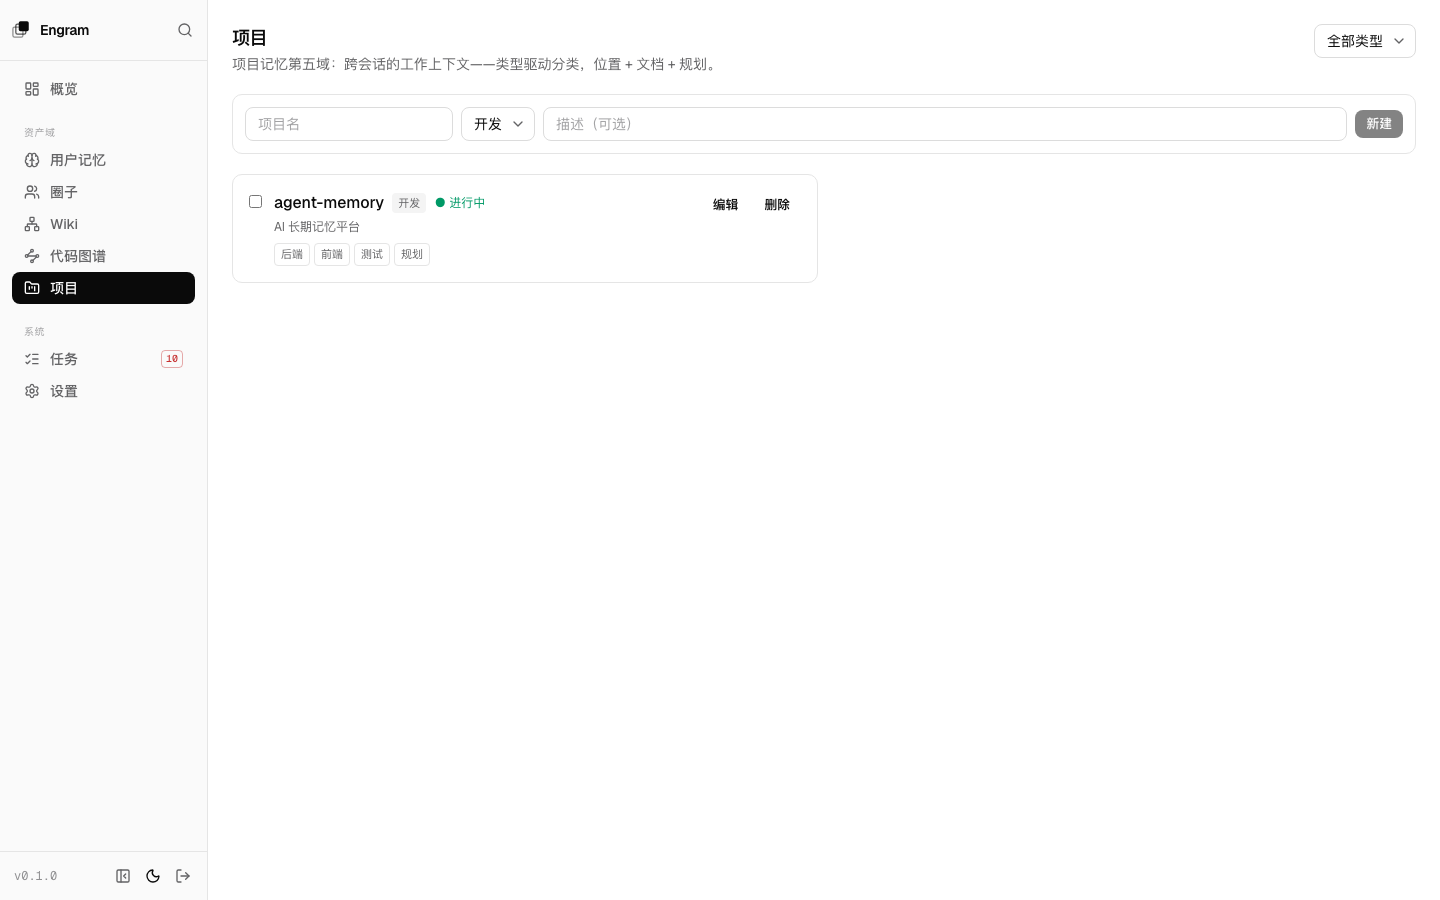
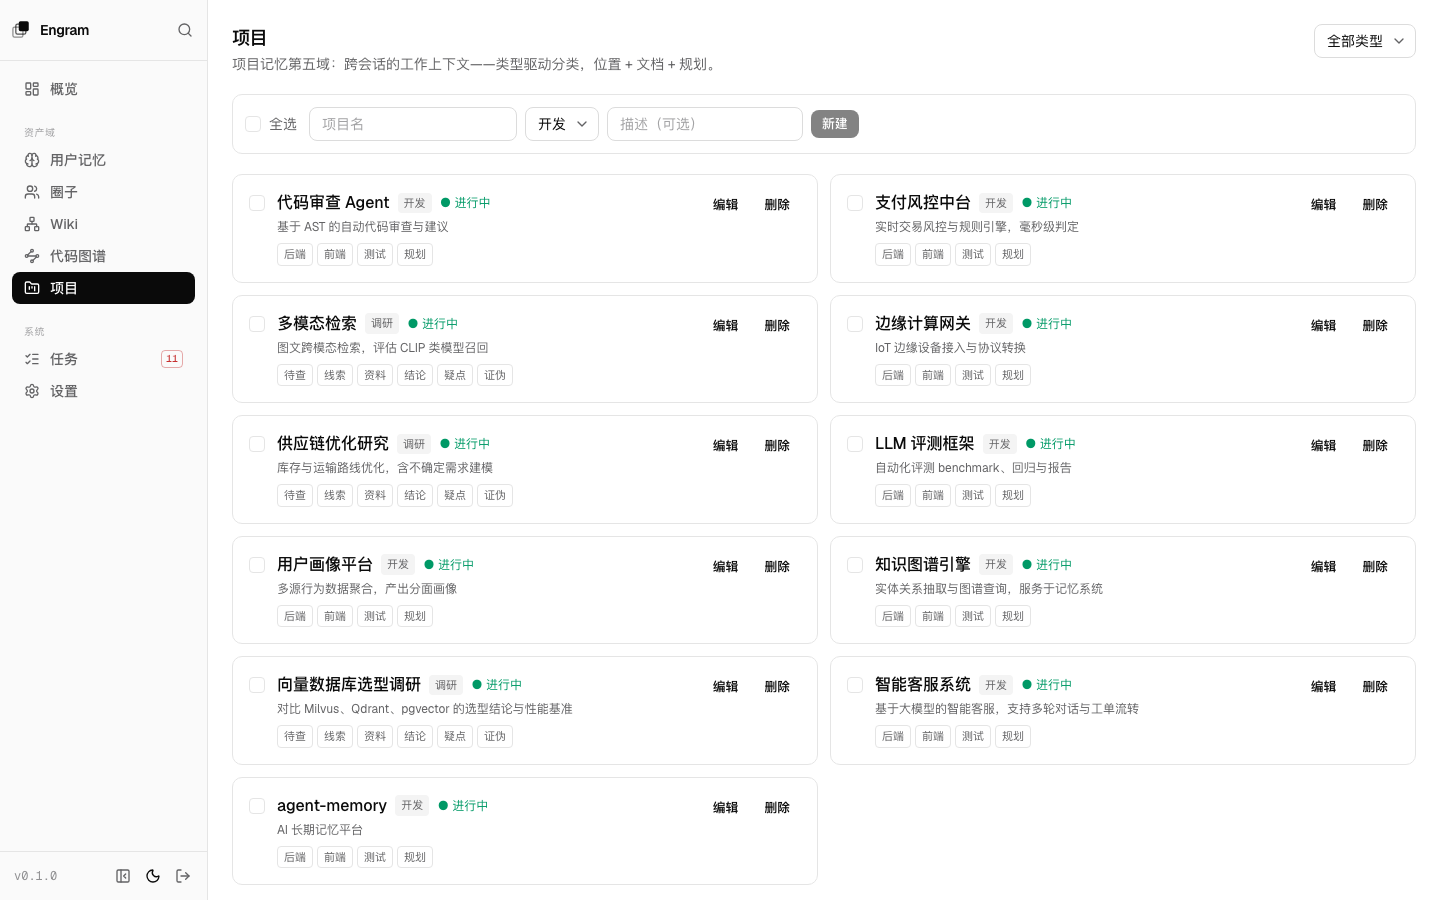
fix(web) 项目列表复选框换设计原语 + 全选并入新建行

diff --git a/web/src/features/Projects.tsx b/web/src/features/Projects.tsx
@@ -2,7 +2,7 @@
 import { useEffect, useState } from 'react'
 import { Link } from 'react-router-dom'
 import { api, type ProjectDto, type ProjectTypeDto } from '@/lib/api'
-import { Card, Empty, ErrorBox, PageHeader, Spinner } from '@/components/ui-bits'
+import { Card, Checkbox, Empty, ErrorBox, PageHeader, Spinner } from '@/components/ui-bits'
 import { inputCls, selectCls } from '@/lib/ui'
 import { Button } from '@/components/ui/button'
 
@@ -153,43 +153,54 @@ export default function Projects() {
         </select>
       </PageHeader>
 
-      {/* 新建 */}
+      {/* 新建 + 全选（同一行） */}
       <Card className="p-3">
-        <form
-          className="flex flex-wrap items-center gap-2"
-          onSubmit={(e) => {
-            e.preventDefault()
-            doCreate()
-          }}
-        >
-          <input
-            className={`${inputCls} w-52`}
-            placeholder="项目名"
-            value={name}
-            onChange={(e) => setName(e.target.value)}
-          />
-          <select className={selectCls} value={type} onChange={(e) => setType(e.target.value)}>
-            {types.map((t) => (
-              <option key={t.type} value={t.type}>
-                {t.label}
-              </option>
-            ))}
-          </select>
-          <input
-            className={`${inputCls} flex-1`}
-            placeholder="描述（可选）"
-            value={desc}
-            onChange={(e) => setDesc(e.target.value)}
-          />
-          <Button size="sm" type="submit" disabled={busy || !name.trim()}>
-            新建
-          </Button>
-        </form>
+        <div className="flex flex-wrap items-center gap-3">
+          {rows.length > 1 && (
+            <Checkbox
+              checked={selected.size === rows.length && rows.length > 0}
+              onChange={() => toggleAll()}
+              label="全选"
+            >
+              {selected.size === rows.length ? '取消全选' : '全选'}
+            </Checkbox>
+          )}
+          <form
+            className="flex flex-wrap items-center gap-2"
+            onSubmit={(e) => {
+              e.preventDefault()
+              doCreate()
+            }}
+          >
+            <input
+              className={`${inputCls} w-52`}
+              placeholder="项目名"
+              value={name}
+              onChange={(e) => setName(e.target.value)}
+            />
+            <select className={selectCls} value={type} onChange={(e) => setType(e.target.value)}>
+              {types.map((t) => (
+                <option key={t.type} value={t.type}>
+                  {t.label}
+                </option>
+              ))}
+            </select>
+            <input
+              className={`${inputCls} flex-1`}
+              placeholder="描述（可选）"
+              value={desc}
+              onChange={(e) => setDesc(e.target.value)}
+            />
+            <Button size="sm" type="submit" disabled={busy || !name.trim()}>
+              新建
+            </Button>
+          </form>
+        </div>
       </Card>
 
       {err && <ErrorBox msg={err} />}
 
-      {/* 批量操作条 */}
+      {/* 批量操作条（选中时出现） */}
       {selected.size > 0 && (
         <div className="flex items-center gap-3 rounded-lg border border-border bg-muted/30 px-3 py-2">
           <span className="text-sm text-muted-foreground">已选 {selected.size} 项</span>
@@ -209,11 +220,11 @@ export default function Projects() {
           {rows.map((p) => (
             <Card key={p.id} className="p-4">
               <div className="flex items-start gap-3">
-                <input
-                  type="checkbox"
+                <Checkbox
                   className="mt-1"
                   checked={selected.has(p.id)}
                   onChange={() => toggle(p.id)}
+                  label={`选择 ${p.name}`}
                 />
                 <div className="min-w-0 flex-1">
                   <div className="flex items-center gap-2">
@@ -295,22 +306,6 @@ export default function Projects() {
               )}
             </Card>
           ))}
-
-          {/* 全选（放最后一行底部） */}
-          {rows.length > 1 && (
-            <button
-              type="button"
-              className="flex items-center gap-2 self-start text-xs text-muted-foreground hover:text-foreground"
-              onClick={toggleAll}
-            >
-              <input
-                type="checkbox"
-                readOnly
-                checked={selected.size === rows.length && rows.length > 0}
-              />
-              {selected.size === rows.length ? '取消全选' : '全选'}
-            </button>
-          )}
         </div>
       )}
     </div>
